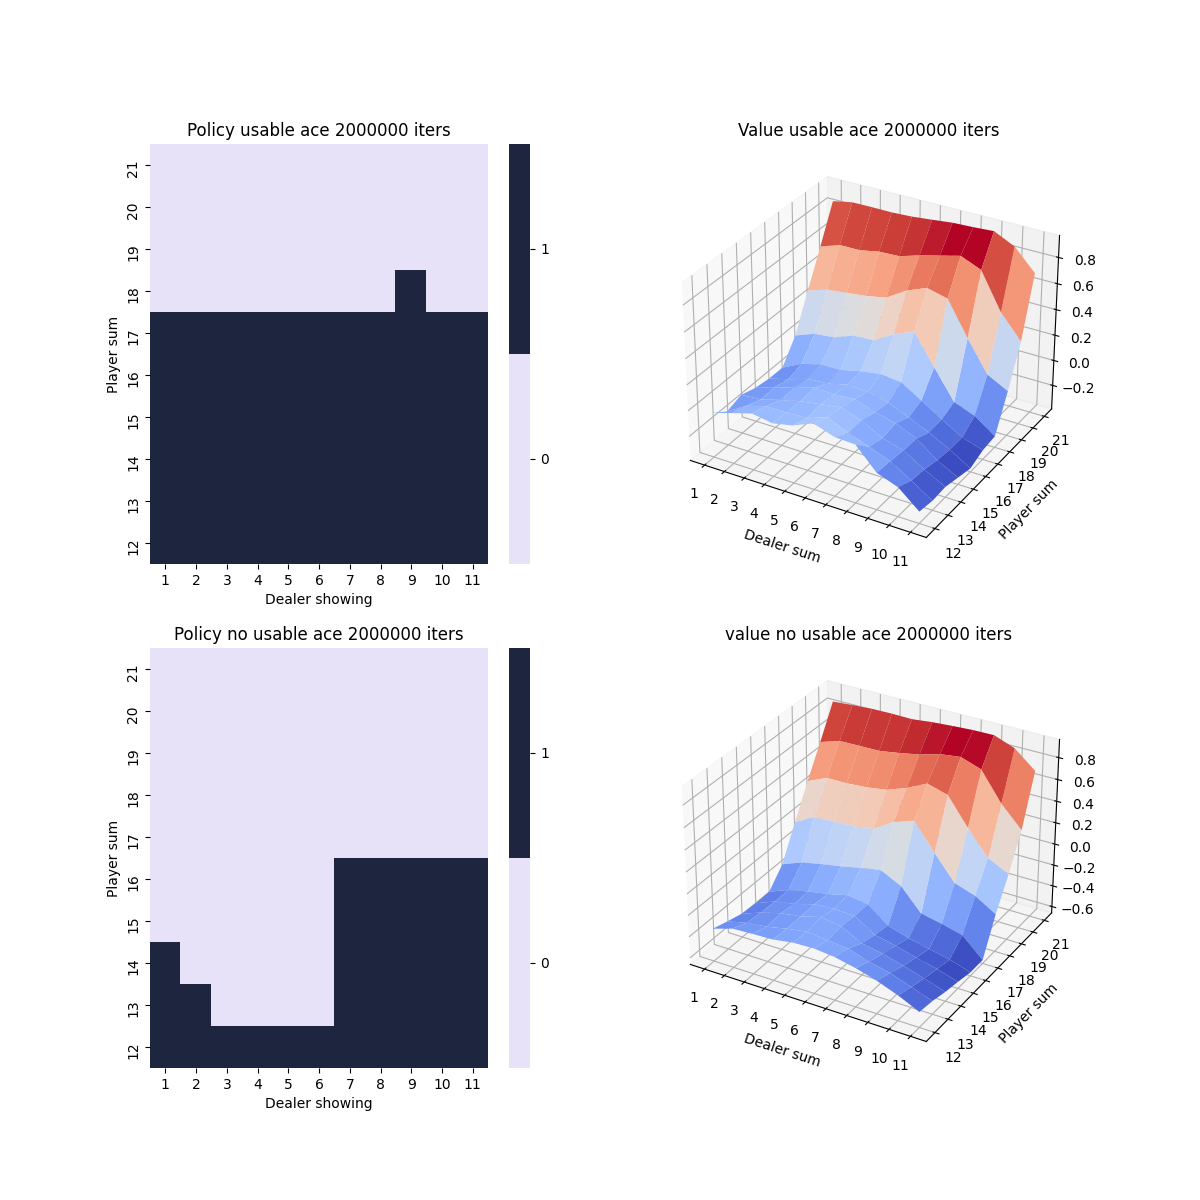
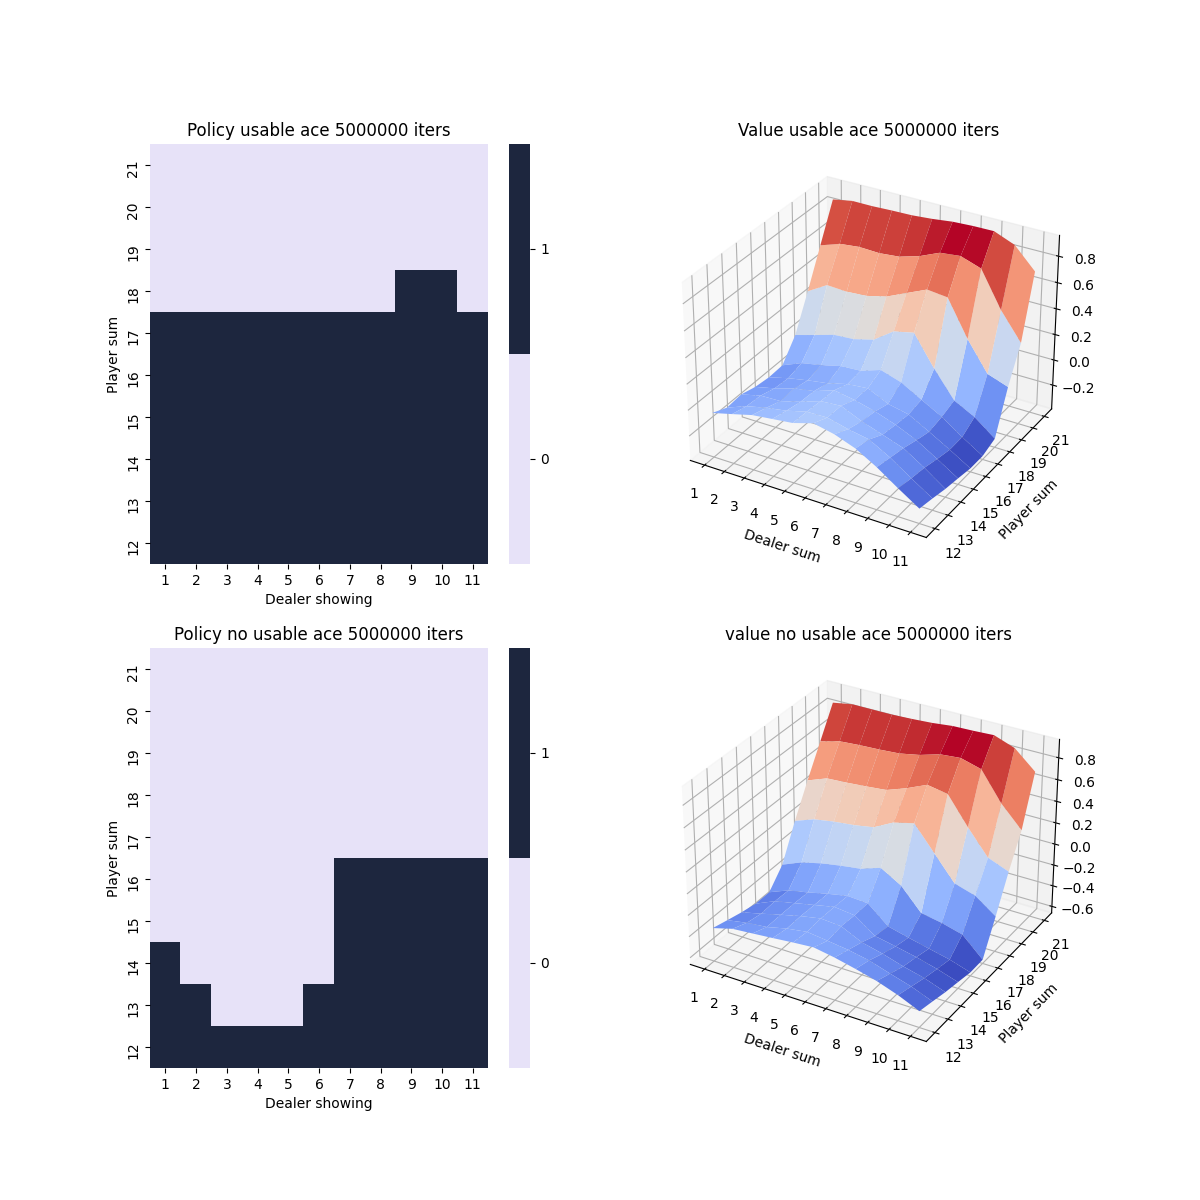
increase iters

diff --git a/chapter5/main.py b/chapter5/main.py
@@ -67,7 +67,7 @@ def figure_5_2(figsize=(12, 12)):
     mc = MonteCarloController(env)
 
     eps = 0.3
-    iterations = 2_000_000
+    iterations = 5_000_000
 
     policy = mc.generate_soft_policy(mc.greedy_policy, eps, 2)
     mc.on_policy_improvement(policy, iters=iterations)
